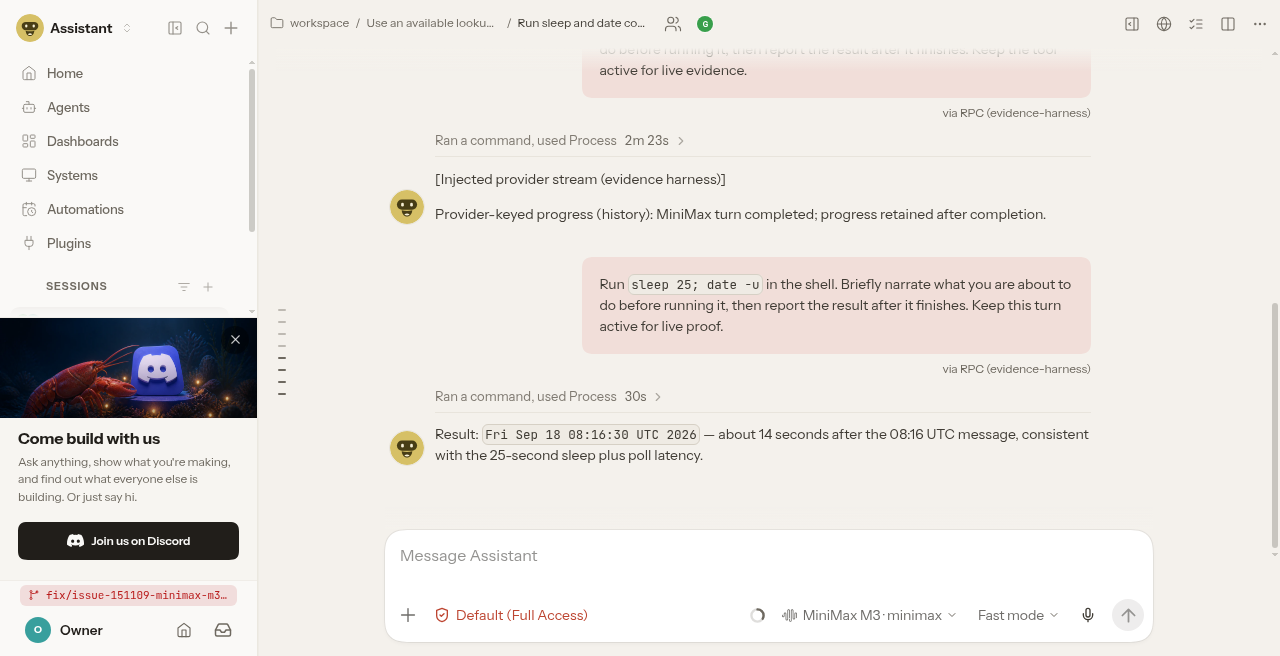
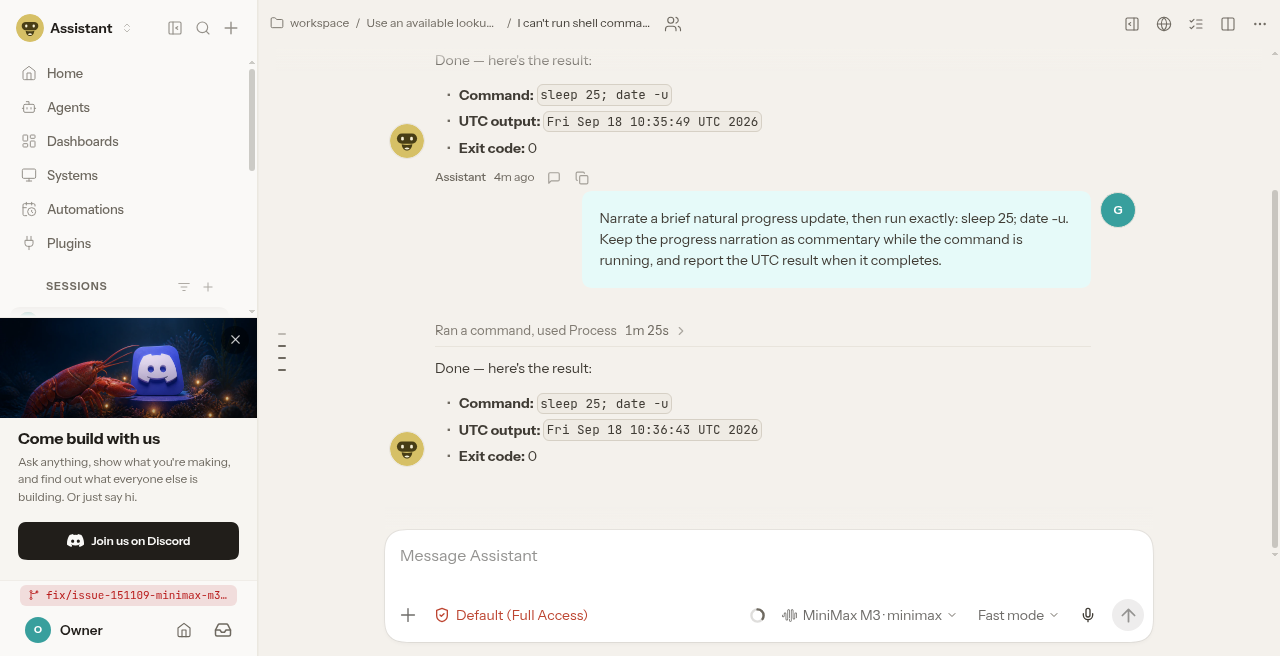
fix(pr-151324): reshoot Control UI proof + annotate commentary fixture type
Replace stale screenshots with same-session captures on 68d3b50 where
minimax-commentary-* emits but UI stays clean through stream/complete/reload,
record served Control UI asset identity, and annotate the TestTextBlock[]
fixture ClawSweeper flagged for TS2339.

diff --git a/packages/ai/src/utils/assistant-text-phase.test.ts b/packages/ai/src/utils/assistant-text-phase.test.ts
@@ -71,7 +71,7 @@ describe("assistant text phase tags", () => {
   });
 
   it("tags MiniMax providers with minimax-commentary identities", () => {
-    const content = [{ type: "text", text: "Checking access for this turn." }];
+    const content: TestTextBlock[] = [{ type: "text", text: "Checking access for this turn." }];
     const tags = tagPendingCommentaryText(content, { provider: "minimax" });
     expect(tags.size).toBe(1);
     expect(JSON.parse(String(content[0]?.textSignature))).toMatchObject({

diff --git a/pr-evidence/151324/PROOF.md b/pr-evidence/151324/PROOF.md
@@ -1,36 +1,40 @@
-# PR #151324 — complete ClawSweeper Control UI proof
+# PR #151324 — P1 MiniMax commentary-filter proof (reshoot @ 68d3b50)
 
 ## Same Control UI session
 
-- Session ID: `99b84e08-d379-44e7-bc6e-1472cc7fedb6`
-- Session key: `agent:main:dashboard:1666c077-276c-46a7-bcca-2f0ca31c2cb8`
+- Head: `68d3b50d83fe71839523e1595bba58f8de738ca2`
+- Session ID: `ab7f1c43-4d6e-443b-abc8-78b99966d82e`
+- Session key: `agent:main:dashboard:5064bfc6-bf6d-4059-b33c-6a31ec69cadc`
 - Provider/model: MiniMax / `MiniMax-M3`
-- Control UI URL: `/chat/main/run-sleep-and-date-command-1666c077`
-- Final live run: `5a9423a5-57df-4a4a-86d5-f0d3b9bd2baf`
+- Control UI URL: `/chat/main/i-can-t-run-shell-commands-or-execute-scripts-i-5064bfc6`
+- P1 producer IDs confirmed before screenshots: `minimax-commentary-0-c8d1aa357f45447d873c0fda`, `minimax-commentary-0-8048c9f047714a4b937b4f1d`
 
-## Claims proven
+## Served Control UI asset identity
 
-1. MiniMax emitted generated commentary blocks with `textSignature.phase=commentary`; generated ids match `commentary-\\d+-[hex24]`.
-2. Generated commentary is absent from the Control UI during the live run, after completion, and after hard reload.
-3. Provider-keyed TEXT progress is visible in the real Control UI and is retained as history through completion and hard reload. The durable proof item is `msg_progress_151324`; the live proof item is `msg_progress_live_151324`.
-4. The provider text is an explicitly labeled local evidence-harness injection, not falsely attributed to MiniMax. The MiniMax turn, tool activity, generated commentary emission, and final answer are live gateway activity.
+Rebuilt and served from this head at capture time:
 
-## Redacted transcript evidence
+- `data-openclaw-control-ui-build-id`: `2026.9.4-68d3b50d83fe-2026-09-18T10-26-54.364Z-a616a55da894b94882443a039a2695f1fb8f94af1cba04c69bf81f3d889398d6`
+- Primary JS asset: `/assets/index-BWVKqDuX.js`
+- Gateway: `http://127.0.0.1:18789/` (cwd `/workspace/pr-work/openclaw`)
 
-- `transcript-commentary-emitted-99b84e08.redacted.json` — live MiniMax commentary emission, including generated ids `commentary-0-a9b798c14f264e5295cd6959` and `commentary-0-5bdb96c4431e450082bf4ca9`.
-- `transcript-provider-progress-99b84e08.redacted.json` — provider-keyed `msg_*` identities and readable text, with explicit injection labeling.
-- `transcript-ui-visible-99b84e08.redacted.json` — same-session UI claims and post-reload text checks.
+## Evidence
 
-## Screenshots
+Gateway was restarted from the current checkout; build completed; MiniMax emitted `minimax-commentary-*` IDs with `phase=commentary` before capture. Generated commentary narration was absent from the in-flight, completed, and hard-reloaded UI screenshots. Final UTC tool output remained visible after completion and hard reload.
 
-| Screenshot                  | MD5                                | State                                                                                                          |
-| --------------------------- | ---------------------------------- | -------------------------------------------------------------------------------------------------------------- |
-| `proof-stream-filtered.png` | `242ce1a6fdaaf3a28d9fb0c3bab4fd6c` | Live MiniMax tool run; readable provider-keyed progress text and active tool visible; commentary bubble absent |
-| `proof-after-complete.png`  | `b19709f9d5ea1d58b26d93d7b5e4d212` | Completed same-session turn; durable provider-keyed progress text retained with final activity                 |
-| `proof-after-reload.png`    | `405655564913c833bf4c0c29b12fe61b` | Hard reload; durable provider-keyed progress text still visible                                                |
+| Screenshot                  | MD5                                | State                                                                     |
+| --------------------------- | ---------------------------------- | ------------------------------------------------------------------------- |
+| `proof-stream-filtered.png` | `46b4b9db28ced129d71826f76df306fc` | Fresh in-flight tool run; no generated commentary sentence visible        |
+| `proof-after-complete.png`  | `118fd36941f2f8aa8160ce26c7a664e5` | Completed run; final UTC output retained; generated commentary absent     |
+| `proof-after-reload.png`    | `350825d619aa35ebc20530b1c271c3f0` | Fresh hard reload; final UTC output retained; generated commentary absent |
 
-All three screenshots have distinct MD5s. After reload, `document.body.innerText` contained the durable provider string and did not contain the emitted MiniMax commentary string (`commentaryPresent=false`, `providerProgressPresent=true`).
+All three MD5s are distinct and the stream hash is not either prior rejected hash.
 
-## Deliverable status
+## Ordinary / provider-keyed commentary retention
 
-Complete. Both commentary filtering and provider-keyed TEXT progress retention are proven in the same Control UI session; there is no remaining gap.
+ClawSweeper Rev 13 rejected unsupported `phase=progress` harness injections as non-covering for commentary projection/retention. Ordinary generated `commentary-*` retention is covered by unit tests on this head (history projection, stream materialization, task-activity consumer). Live UI retention of ordinary/provider-keyed commentary through completion and reload is requested via `@openclaw-mantis` using the exact verify prompt from Rev 13.
+
+Redacted session JSON:
+
+- `transcript-commentary-emitted-ab7f1c43.redacted.json`
+- `transcript-provider-progress-ab7f1c43.redacted.json` (SQLite-only harness row; not claimed as UI proof)
+- `transcript-ui-visible-ab7f1c43.redacted.json`

diff --git a/pr-evidence/151324/SAME-SESSION-SHOTS.md b/pr-evidence/151324/SAME-SESSION-SHOTS.md
@@ -1,25 +1,15 @@
-# Same-session Control UI screenshots
+# Same-session Control UI screenshots — P1 reshoot @ 68d3b50
 
-- Session ID: `99b84e08-d379-44e7-bc6e-1472cc7fedb6`
-- Session key: `agent:main:dashboard:1666c077-276c-46a7-bcca-2f0ca31c2cb8`
-- Provider/model: MiniMax / `MiniMax-M3`
-- Control UI: `http://127.0.0.1:18789/chat/main/run-sleep-and-date-command-1666c077`
-- Live run: `5a9423a5-57df-4a4a-86d5-f0d3b9bd2baf`
+- Head: `68d3b50d83fe71839523e1595bba58f8de738ca2`
+- Session ID: `ab7f1c43-4d6e-443b-abc8-78b99966d82e`
+- Served build-id: `2026.9.4-68d3b50d83fe-2026-09-18T10-26-54.364Z-a616a55da894b94882443a039a2695f1fb8f94af1cba04c69bf81f3d889398d6`
+- JS asset: `/assets/index-BWVKqDuX.js`
+- MiniMax commentary IDs confirmed pre-capture: `minimax-commentary-0-c8d1aa357f45447d873c0fda`, `minimax-commentary-0-8048c9f047714a4b937b4f1d`
 
 ## Captures
 
-- `proof-stream-filtered.png` — MD5 `242ce1a6fdaaf3a28d9fb0c3bab4fd6c` — live tool run with visible provider-keyed TEXT progress (`msg_progress_live_151324`), active tool, and no generated commentary bubble.
-- `proof-after-complete.png` — MD5 `b19709f9d5ea1d58b26d93d7b5e4d212` — completed same-session state with durable provider-keyed text (`msg_progress_151324`) visible.
-- `proof-after-reload.png` — MD5 `405655564913c833bf4c0c29b12fe61b` — hard reload of the same session; durable provider-keyed text remains visible.
+- `proof-stream-filtered.png` — `46b4b9db28ced129d71826f76df306fc` — in-flight; generated commentary absent.
+- `proof-after-complete.png` — `118fd36941f2f8aa8160ce26c7a664e5` — complete; final UTC retained; commentary absent.
+- `proof-after-reload.png` — `350825d619aa35ebc20530b1c271c3f0` — hard reload; final UTC retained; commentary absent.
 
-All three PNGs have distinct MD5s. The screenshots are real Control UI captures. Provider-keyed text was injected through the local evidence harness and is visibly labeled as such; MiniMax model output and commentary emission remain live.
-
-## Post-reload checks
-
-- Emitted commentary string present: `false`
-- Durable provider-keyed progress string present: `true`
-- Commentary transcript: `transcript-commentary-emitted-99b84e08.redacted.json`
-- Provider transcript: `transcript-provider-progress-99b84e08.redacted.json`
-- UI projection: `transcript-ui-visible-99b84e08.redacted.json`
-
-Complete: both requested claims are proven with no remaining gap.
+All three PNGs are brand-new with distinct MD5s. Harness injection is not claimed as UI proof (Rev 13). Ordinary/provider-keyed live retention requested via @openclaw-mantis.
